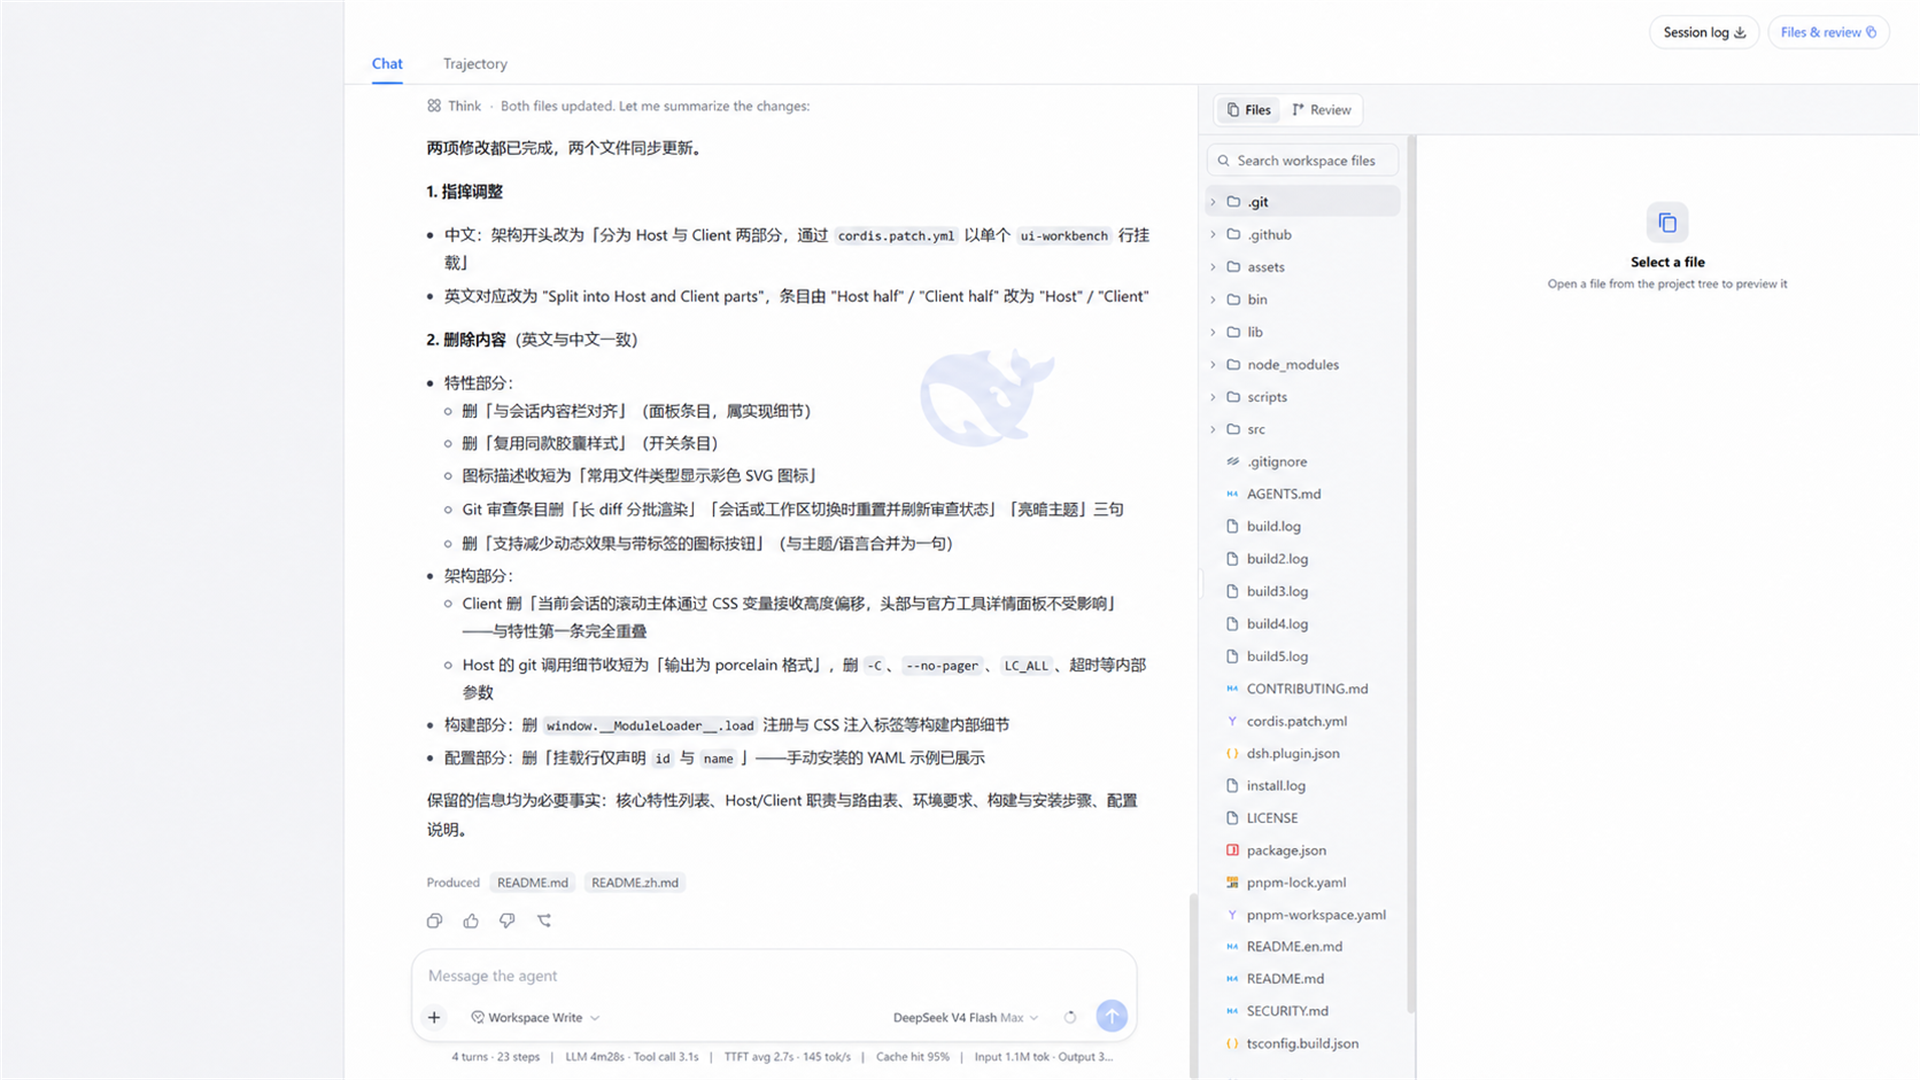
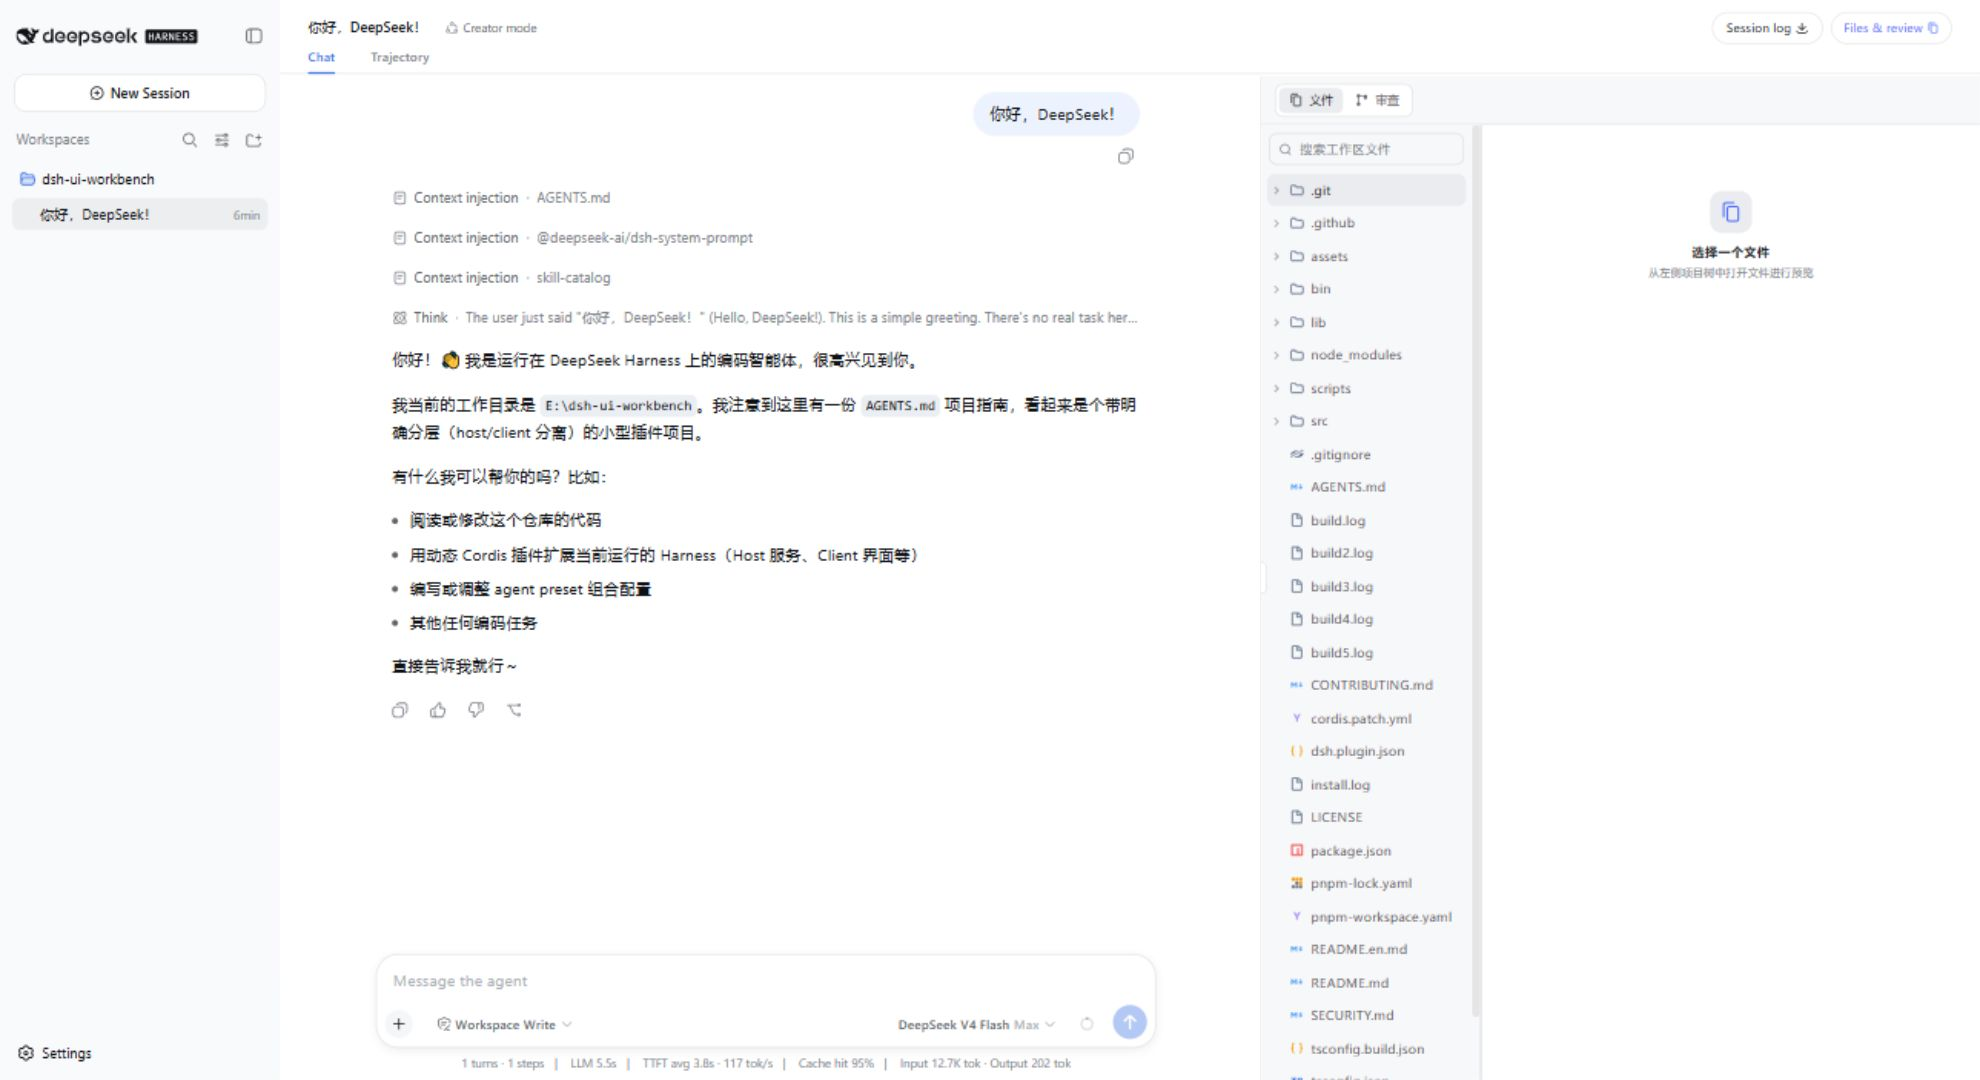
docs: refresh workbench screenshots

diff --git a/README.en.md b/README.en.md
@@ -6,7 +6,7 @@ A DeepSeek Harness web plugin. Adds a right-side panel to the conversation page:
 
 ## Screenshot
 
-![English UI screenshot (1920 × 1080)](https://raw.githubusercontent.com/LoftyTao/dsh-ui-workbench/main/assets/workbench-en.png)
+![English UI screenshot (1980 × 1080)](https://raw.githubusercontent.com/LoftyTao/dsh-ui-workbench/main/assets/workbench-en.png)
 
 ## Features
 
